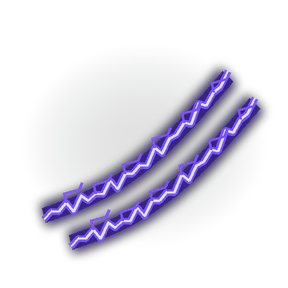
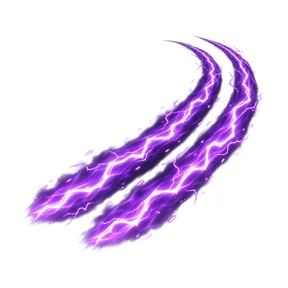
art(garage): illustrate the five drift trail cards

Changed region(s): [[0.0938, 0.125, 0.9375, 0.9062]]

diff --git a/tests/garage-drift-artwork-browser.spec.js b/tests/garage-drift-artwork-browser.spec.js
@@ -1,0 +1,55 @@
+import { expect, openGarage, test } from './helpers/test.js';
+import { openGarageSection } from './helpers/garage-browser.js';
+
+const variants = ['flame', 'rainbow', 'ice', 'arc', 'stardust'];
+const viewports = [{ width: 390, height: 844 }, { width: 844, height: 390 }, { width: 1440, height: 900 }];
+for (const viewport of viewports) {
+  test(`five drift trail cards show native 3× art with safe insets at ${viewport.width}×${viewport.height}`, async ({ page }, testInfo) => {
+    await page.setViewportSize(viewport);
+    await page.emulateMedia({ reducedMotion: 'reduce' });
+    await page.goto('/', { waitUntil: 'domcontentloaded' });
+    await openGarage(page);
+    await openGarageSection(page, 'effects');
+    const category = page.locator('[data-vfx-category="drift-trail"]');
+    for (const variant of variants) {
+      const card = category.locator(`[data-skin="drift-trail-${variant}"]`);
+      const image = card.locator('.garage-vfx-art img');
+      await image.scrollIntoViewIfNeeded();
+      await expect(image).toHaveAttribute('src', new RegExp(`drift-trail-${variant}@3x\\.webp$`));
+      const layout = await image.evaluate(async img => {
+        await img.decode();
+        const { naturalWidth: width, naturalHeight: height } = img;
+        const canvas = Object.assign(document.createElement('canvas'), { width, height });
+        const context = canvas.getContext('2d');
+        context.drawImage(img, 0, 0);
+        const pixels = context.getImageData(0, 0, width, height).data;
+        let left = width, top = height, right = -1, bottom = -1;
+        for (let y = 0; y < height; y++) for (let x = 0; x < width; x++) {
+          if (pixels[(y * width + x) * 4 + 3] <= 16) continue;
+          left = Math.min(left, x); top = Math.min(top, y);
+          right = Math.max(right, x); bottom = Math.max(bottom, y);
+        }
+        const art = img.getBoundingClientRect();
+        const frame = img.parentElement.getBoundingClientRect();
+        const caption = img.closest('button').querySelector('strong').getBoundingClientRect();
+        return {
+          native: [width, height], size: [art.width, art.height].map(Math.round),
+          insets: [left, top, width - right - 1, height - bottom - 1],
+          visibleWidth: right - left + 1,
+          padding: Math.round(Math.min(art.left - frame.left, art.top - frame.top, frame.right - art.right, frame.bottom - art.bottom)),
+          captionBelow: caption.top >= frame.bottom, fit: getComputedStyle(img).objectFit,
+        };
+      });
+      expect(layout.native, variant).toEqual([288, 288]);
+      expect(layout.size, variant).toEqual([96, 96]);
+      expect(Math.min(...layout.insets), variant).toBeGreaterThanOrEqual(22);
+      expect(layout.visibleWidth, variant).toBeGreaterThanOrEqual(210);
+      expect(layout.padding, variant).toBeGreaterThanOrEqual(8);
+      expect(layout.captionBelow, variant).toBe(true);
+      expect(layout.fit, variant).toBe('contain');
+    }
+    await category.locator('h4').scrollIntoViewIfNeeded();
+    const screenshot = await page.locator('#garage-screen').screenshot();
+    await testInfo.attach('Garage drift trail cards', { body: screenshot, contentType: 'image/png' });
+  });
+}

diff --git a/docs/designs/3x-asset-library/garage-drift-trails/README.md b/docs/designs/3x-asset-library/garage-drift-trails/README.md
@@ -1,0 +1,19 @@
+# Garage drift-trail artwork
+
+Five ImageGen illustrations for the Garage Effects collection. The PNGs here are lossless 288×288 production masters. The cards load their WebP exports from `public/feature-assets/garage-vfx-skins/raster/` and display them at 96×96 CSS pixels. The five files replace the provisional thumbnails at the existing stable skin IDs.
+
+The source was generated on transparent square canvases. Each full source was scaled down and centered by its visible alpha bounds without cropping the silhouette. The WebPs retain alpha. All five exports have at least 22 px clearance on every edge at alpha >16.
+
+## Generation prompts
+
+Shared composition
+
+> Create one square transparent-alpha 2.5D / painterly 3D arcade-racing inventory collectible icon for a modern racing game Garage drift trail card, read at 96 px. Identical series composition: two closely spaced parallel tyre drift ribbons on an invisible ground plane, low bent diagonal sweeping from lower-left to upper-right in gentle complementary arcs, seen from high three-quarter overhead. Prominent clean silhouette, two separate track centers with a dark clear gap, broad shapes and layered sculptural depth, soft specular lighting, precise taper, controlled bright cores. Center the pair and occupy about 84% of the square with generous safe transparent padding, glow contained. Sole subject is the pair of tyre trails and its material particles. Absolutely transparent beyond the isolated effect; no checkerboard, no ground surface, no road piece, no vehicle, no base, no panel, no badge, no typographic marks, no UI, no text, no border or background.
+
+| Skin | Prompt detail |
+| --- | --- |
+| `drift-trail-flame` | Pair of ember-orange tire traces with sculpted low flame tongues, hot amber inner edges, darker ruby tails and a few grouped ember flecks. Warm orange dominates. The flame travels down each wheel trace and hugs the road. |
+| `drift-trail-rainbow` | Pair of broad glossy flowing spectral ribbons. Show distinct red-orange, gold, mint, cyan, indigo, and pink parallel filaments within EACH ribbon. Iridescence, dimensional twists, bright satin crests, and tapered wispy endings. Strong rainbow palette readable at thumbnail scale. |
+| `drift-trail-ice` | Pair of cyan tire traces made of repeated angular glacial crystalline fins rising in a low line. Faceted translucent blue ice wedges, subtle frosted cores, sharp pale cyan edges and a few icy particles. No large disconnected crystals. |
+| `drift-trail-arc` | Pair of unmistakable electric violet angular lightning channels across the roadway, clear jagged lilac cores, a few fine branching side bolts, deep indigo-violet outer glow and short charged particles. Branches stay near the two traces. |
+| `drift-trail-stardust` | Pair of rich magenta and deep purple ground-hugging nebula ribbons, dark purple body and pale pink edges, with scattered tiny star sparks and faint violet mist; atmospheric soft volume and clustered pinpoints of light. Clearly two distinct swept tracks. |

diff --git a/TODO.md b/TODO.md
@@ -3,6 +3,7 @@
 - [x] Add five visual drift trails beside the original rubber. The existing account-scoped trial separates preview and equip.
 - [x] Observed three test-first failures for the missing catalog, geometry and race wiring. Focused skid, shader and Garage tests passed after implementation. Full Node suite: 3,363 passed, 3 skipped. The locked build passed its leakage audit.
 - [x] Captured the five live WebGL previews with the Roadster and Crimson GT models. Existing equip audio is sufficient for these cosmetic-only variants. Low graphics keeps the five silhouettes and reduces secondary detail. Comfort and reduced motion suppress the moving pattern.
+- [x] Replace the five provisional drift-trail cards with 288×288 alpha WebPs and keep their lossless PNG masters. The first browser run caught a 20 px source margin on the previous artwork. The five replacements exceed the 22 px threshold. Trial and locked builds passed, along with 3,363 Node tests (3 skipped).
 - [ ] Confirm physical phone checks, the complete browser/World Tour suite and the feature branch CI.
 
 # Develop browser CI run 44117764575
